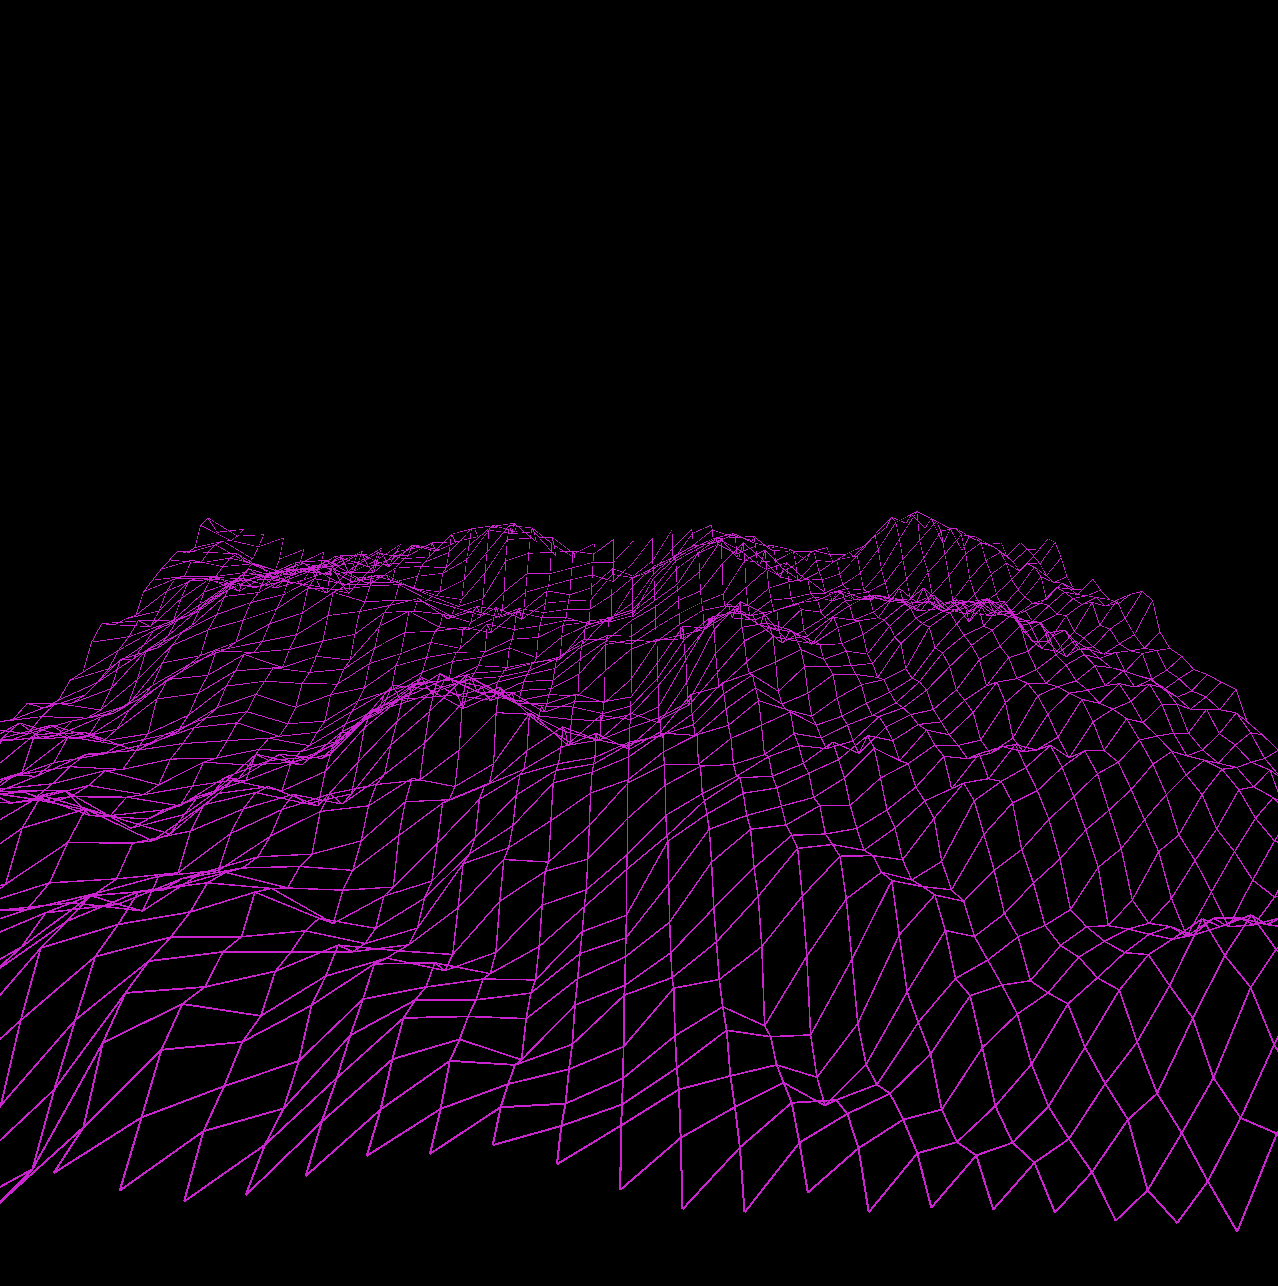
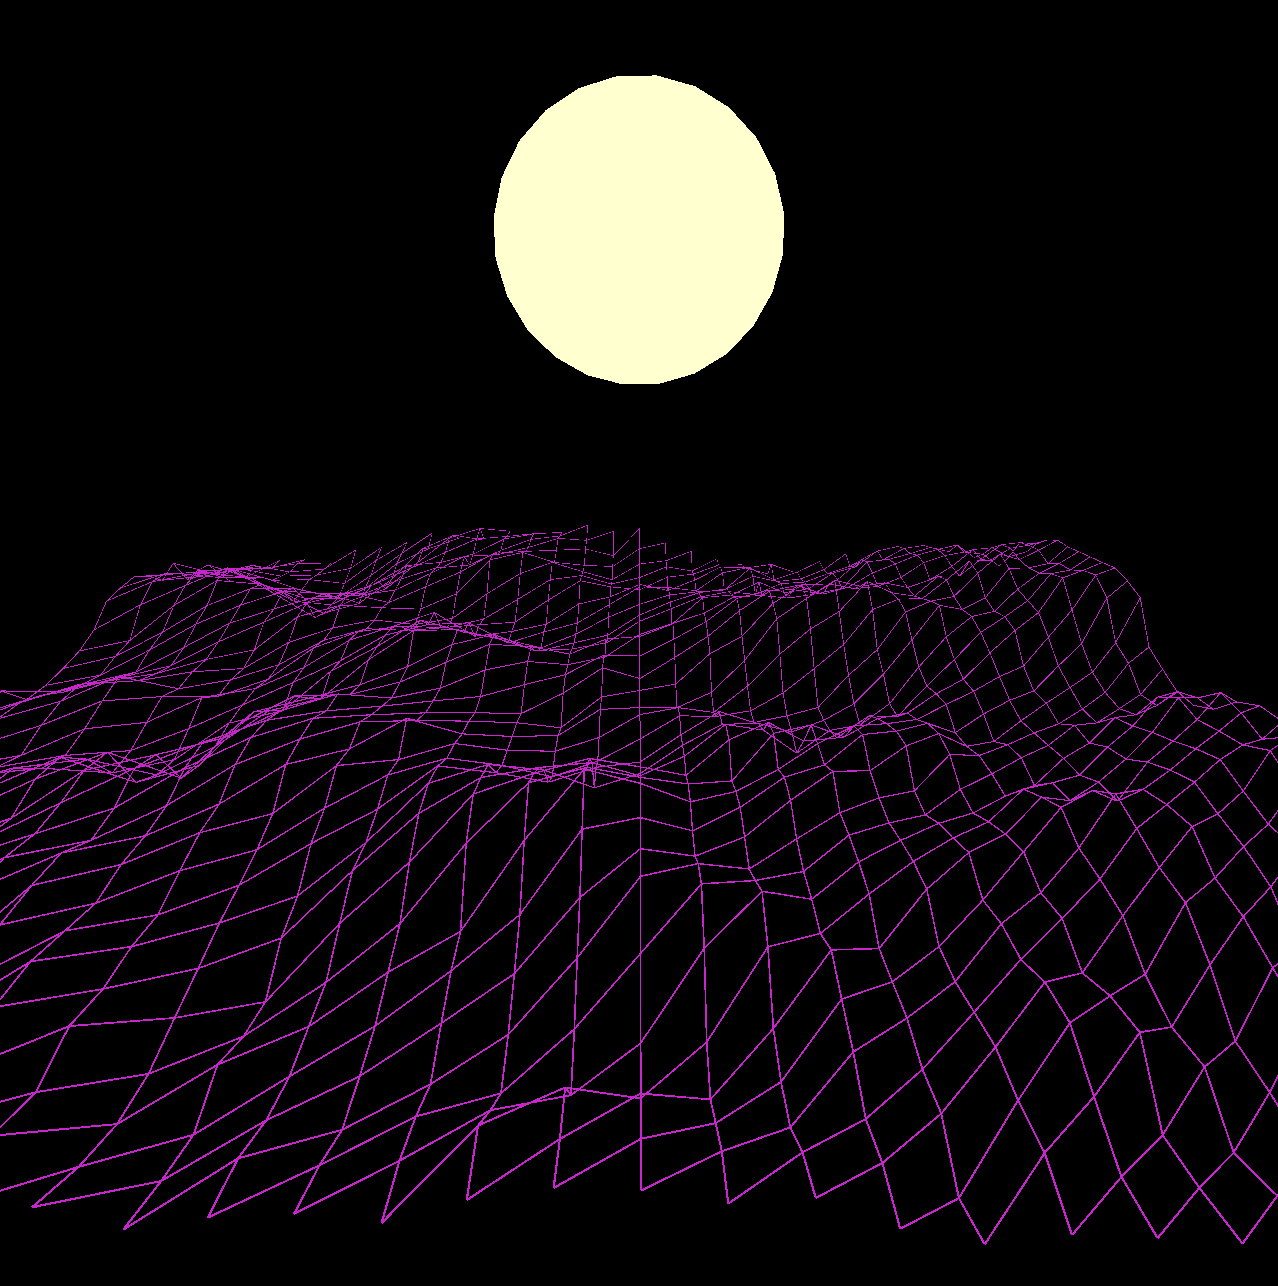
hey

diff --git a/animations/reactionDiffusion/scripts.js b/animations/reactionDiffusion/scripts.js
@@ -1,0 +1,123 @@
+class Canvas {
+	constructor() {
+		let canvas = document.getElementById('canvas');
+		this.ctx = canvas.getContext('2d');
+
+		canvas.width = window.innerWidth/2;
+		canvas.height = window.innerHeight/2;
+
+		this.width = canvas.width;
+		this.height = canvas.height;
+
+		console.log(this.width)
+		console.log(this.height)
+
+
+		this.grid = []
+		this.nextGrid = []
+		this.da = 1
+		this.db = .5
+		this.f = .055
+		this.k = .062
+
+		for (let i = 0; i < this.height; i++) {
+			this.grid[i] = [];
+			this.nextGrid[i] = [];
+
+			for (let j = 0; j < this.width; j++) {
+
+				this.grid[i][j] = {
+					a: 1,
+					b: 0
+				};
+				this.nextGrid[i][j] = {
+					a: 1,
+					b: 0
+				};
+			}
+		}
+
+		const hr = Math.floor(Math.random() * this.height)
+		const wr = Math.floor(Math.random() * this.width)
+
+		this.grid[hr][wr].b = 4
+
+		// for (let i = Math.floor(this.height / 2); i < Math.floor(this.height / 2) + 10; i++) {
+		// 	for (let j = Math.floor(this.width / 2); j < Math.floor(this.width / 2) + 10; j++) {
+		// 		this.grid[i][j].b = 1
+		// 	}
+		// }
+	}
+
+	draw() {
+
+	}
+
+	animate() {
+
+		for (let i = 1; i < this.height - 1; i++) {
+			for (let j = 1; j < this.width - 1; j++) {
+				const a = this.grid[i][j].a;
+				const b = this.grid[i][j].b;
+				let newA = a + (this.da * this.laplaceA(i, j)) - (a * b * b) + (this.f * (1 - a));
+				let newB = b + (this.db * this.laplaceB(i, j)) + (a * b * b) - ((this.k + this.f) * b);
+
+				if (newA < 0) newA = 0
+				else if (newA > 1) newA = 1
+				if (newB < 0) newB = 0
+				else if (newB > 1) newB = 1
+
+				this.nextGrid[i][j].a = newA
+				this.nextGrid[i][j].b = newB
+
+				let color = (this.nextGrid[i][j].a - this.nextGrid[i][j].b) * 255
+
+				this.ctx.fillStyle = `rgba(${color}, ${color}, ${color}, 1)`;
+				this.ctx.fillRect(j, i, 1, 1)
+			}
+		}
+
+		const aux = this.grid
+		this.grid = this.nextGrid
+		this.nextGrid = aux
+
+		requestAnimationFrame(this.animate.bind(this));
+
+	}
+
+	laplaceA(x, y) {
+		let sum = 0;
+		sum += this.grid[x][y].a * -1
+		sum += this.grid[x - 1][y].a * .2
+		sum += this.grid[x + 1][y].a * .2
+		sum += this.grid[x][y + 1].a * .2
+		sum += this.grid[x][y - 1].a * .2
+		sum += this.grid[x + 1][y - 1].a * .05
+		sum += this.grid[x - 1][y - 1].a * .05
+		sum += this.grid[x - 1][y + 1].a * .05
+		sum += this.grid[x + 1][y + 1].a * .05
+
+		return sum
+	}
+
+	laplaceB(x, y) {
+		let sum = 0;
+		sum += this.grid[x][y].b * -1
+		sum += this.grid[x - 1][y].b * .2
+		sum += this.grid[x + 1][y].b * .2
+		sum += this.grid[x][y + 1].b * .2
+		sum += this.grid[x][y - 1].b * .2
+		sum += this.grid[x + 1][y - 1].b * .05
+		sum += this.grid[x - 1][y - 1].b * .05
+		sum += this.grid[x - 1][y + 1].b * .05
+		sum += this.grid[x + 1][y + 1].b * .05
+
+		return sum
+
+	}
+}
+
+(function () {
+	let canvas = new Canvas()
+	canvas.animate();
+})()

diff --git a/animations/Worley_Noise/scripts.js b/animations/Worley_Noise/scripts.js
@@ -6,6 +6,9 @@ let animationRequest;
 let particlesArray;
 let animation;
 let hue =0;
+const a = Math.random()*255
+const h = Math.random()*255
+const c = Math.random()*255
 
 
 window.onload = function(){ 
@@ -51,9 +54,9 @@ class Particle {
                 dist.sort(function(a, b){return a - b})
 
                 this.ctx.beginPath();
-                let r = this.map(dist[0], 0, 200, 0, 255)
-                let g = this.map(dist[0], 0, 200, 0, 255)
-                let b = this.map(dist[0], 0, 200, 0, 255)
+                let r = this.map(dist[0], 0, a, 0, c)
+                let g = this.map(dist[0], 0, h, 0, a)
+                let b = this.map(dist[0], 0, c, 0, h)
 
                 let color = 'rgb(' + r + ',' + g + ',' + b +')'
 

diff --git a/animations/Terrain_Generation/scripts.js b/animations/Terrain_Generation/scripts.js
@@ -1,5 +1,5 @@
 let cols, rows;
-let scl = 30;
+let scl = 40;
 let w = window.innerWidth;
 let h = window.innerHeight;
 let bg;
@@ -22,7 +22,7 @@ function setup() {
 
 function draw() {
 
-  flying -= 0.1;
+  flying -= 0.03;
   let yoff = flying;
   for (let y = 0; y < rows; y++) {
     let xoff = 0;
@@ -51,4 +51,14 @@ function draw() {
     }
     endShape();
   }
+
+  translate(w/2, h/2, h/3);
+  push();
+  noStroke(255,255,207);
+  fill(255,255,207)
+  // rotateZ(frameCount * 0.01);
+  // rotateX(frameCount * 0.01);
+  rotateY(frameCount * 0.004);
+  sphere(w/10);
+  pop();
 }

diff --git a/animations/reactionDiffusion/index.html b/animations/reactionDiffusion/index.html
@@ -1,0 +1,16 @@
+<!DOCTYPE html>
+<html lang="pt-br">
+<head>
+    <meta charset="UTF-8">
+    <meta name="viewport" content="width=device-width, initial-scale=1.0">
+    <link rel="stylesheet" href="style.css">
+    <link rel="icon" href="/img/favicon.png" type="image/x-icon" />
+    <title>Reaction Diffusion</title>
+</head>
+<body>
+
+    <canvas id="canvas"></canvas>
+
+</body>
+<script src="scripts.js"></script>
+</html>

diff --git a/animations/reactionDiffusion/style.css b/animations/reactionDiffusion/style.css
@@ -1,0 +1,12 @@
+*{
+    margin: 0;
+    padding: 0;
+    box-sizing: border-box;
+}
+
+#canvas{
+    position: absolute;
+    top: 50%;
+    left: 50%;
+    transform: translate(-50%,-50%);
+}
